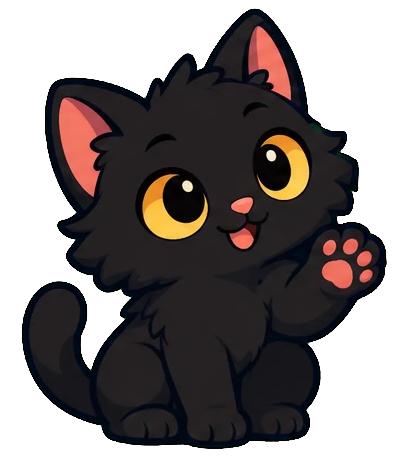
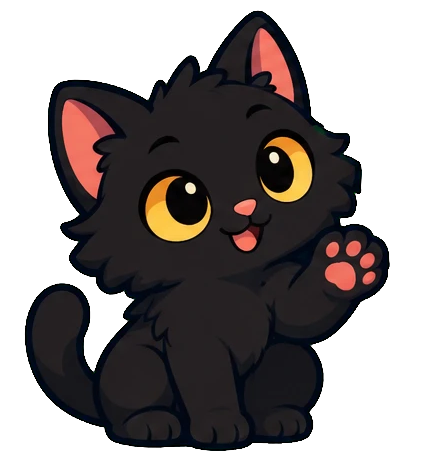
Second Lapka sheet (suspicious, annoyed, reactive, stays, final); split-sheet --scale for matching sheets
Claude-Session: https://claude.ai/code/session_01DrTzfh66vTu5oQNrv4bJap

diff --git a/scripts/split-sheet.py b/scripts/split-sheet.py
@@ -1,7 +1,7 @@
 #!/usr/bin/env python3
 """Cut a generated sprite sheet into separate sprites named by asset key.
 
-usage: python3 scripts/split-sheet.py <sheet id from docs/image_manifest.json> <sheet image> [--out new_sprites] [--gap N]
+usage: python3 scripts/split-sheet.py <sheet id from docs/image_manifest.json> <sheet image> [--out new_sprites] [--gap N] [--scale F]
 
 * the flat background (green / magenta / black) is removed with the same keying as import-sprites.py;
 * every separate subject on the sheet is found as one blob (--gap = how far apart parts may be and still count
@@ -9,6 +9,7 @@ usage: python3 scripts/split-sheet.py <sheet id from docs/image_manifest.json> <
 * blobs are ordered left to right, top to bottom and named from the manifest order;
 * all sprites of a sheet get the SAME canvas (so scale and baseline of a character family are preserved);
   characters are bottom-aligned, everything else centred;
+* --scale F resizes every sprite of the sheet (use it when a second sheet of the same character is drawn smaller/larger);
 * output: transparent PNGs in --out, ready for `python3 scripts/import-sprites.py <out>`.
 """
 import json, os, sys
@@ -70,6 +71,7 @@ def main():
     args = [a for a in sys.argv[1:] if not a.startswith('--')]
     out = 'new_sprites'
     gap = None
+    scale = 1.0
     argv = sys.argv[1:]
     for i, a in enumerate(argv):
         if a == '--out':
@@ -77,6 +79,9 @@ def main():
             args.remove(out)
         if a == '--gap':
             gap = int(argv[i + 1])
+            args.remove(argv[i + 1])
+        if a == '--scale':
+            scale = float(argv[i + 1])
             args.remove(argv[i + 1])
     sheet_id, path = args[0], args[1]
     sh = next((s for s in MANIFEST['sheets'] if s['id'] == sheet_id), None)
@@ -108,7 +113,10 @@ def main():
         piece = rgba.copy()
         piece[..., 3] = np.where(m, piece[..., 3], 0)
         ys, xs = np.where(piece[..., 3] > 10)
-        crops.append(Image.fromarray(piece[ys.min():ys.max() + 1, xs.min():xs.max() + 1]))
+        c = Image.fromarray(piece[ys.min():ys.max() + 1, xs.min():xs.max() + 1])
+        if scale != 1.0:  # make a sheet match the scale of another sheet of the same character
+            c = c.resize((round(c.width * scale), round(c.height * scale)), Image.LANCZOS)
+        crops.append(c)
     pad = 24
     W = max(c.width for c in crops) + 2 * pad
     H = max(c.height for c in crops) + 2 * pad
